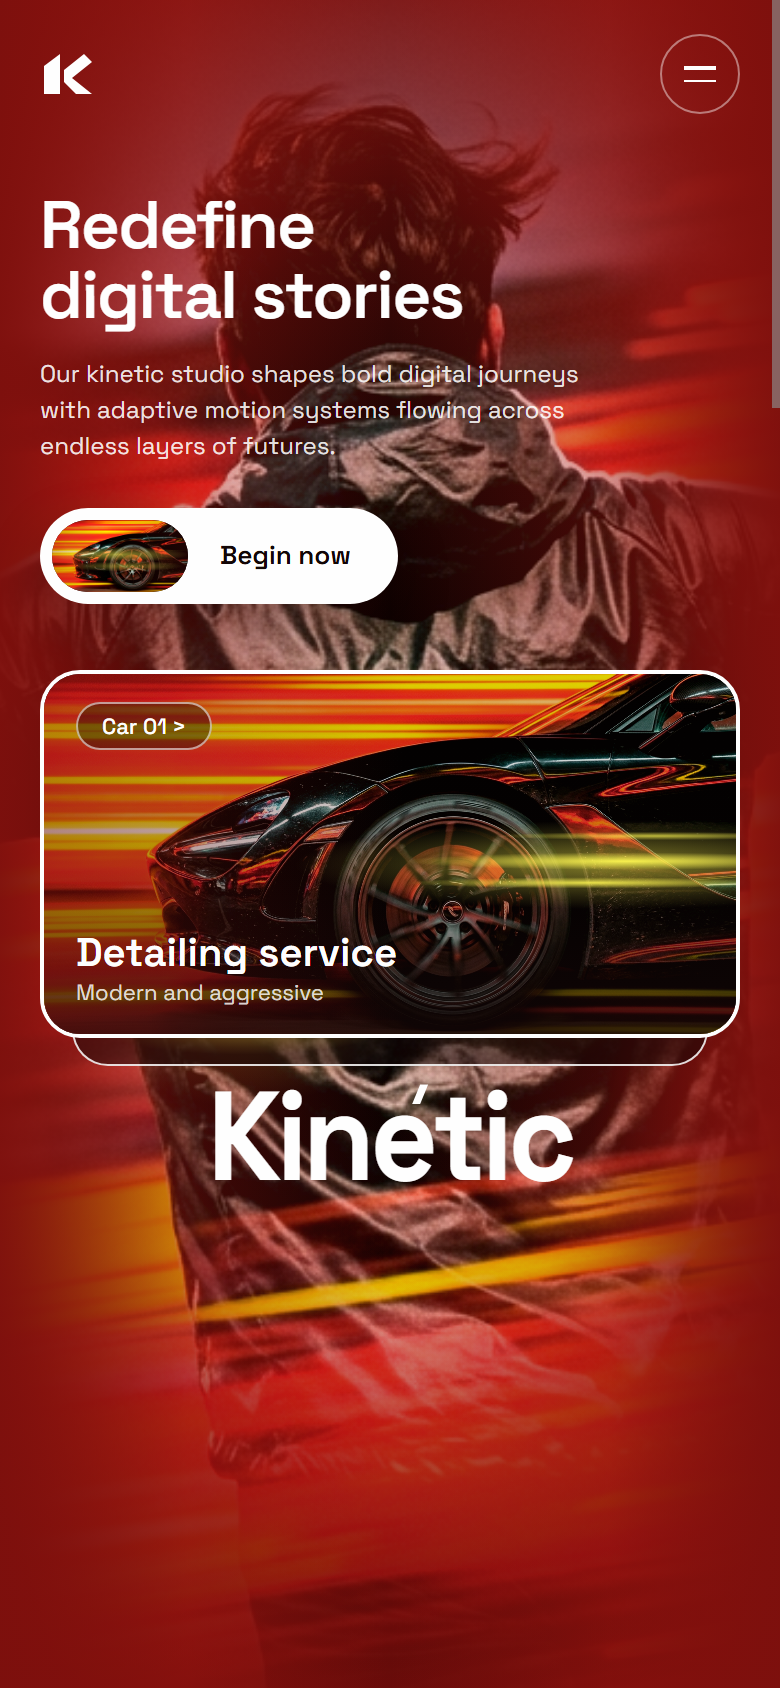
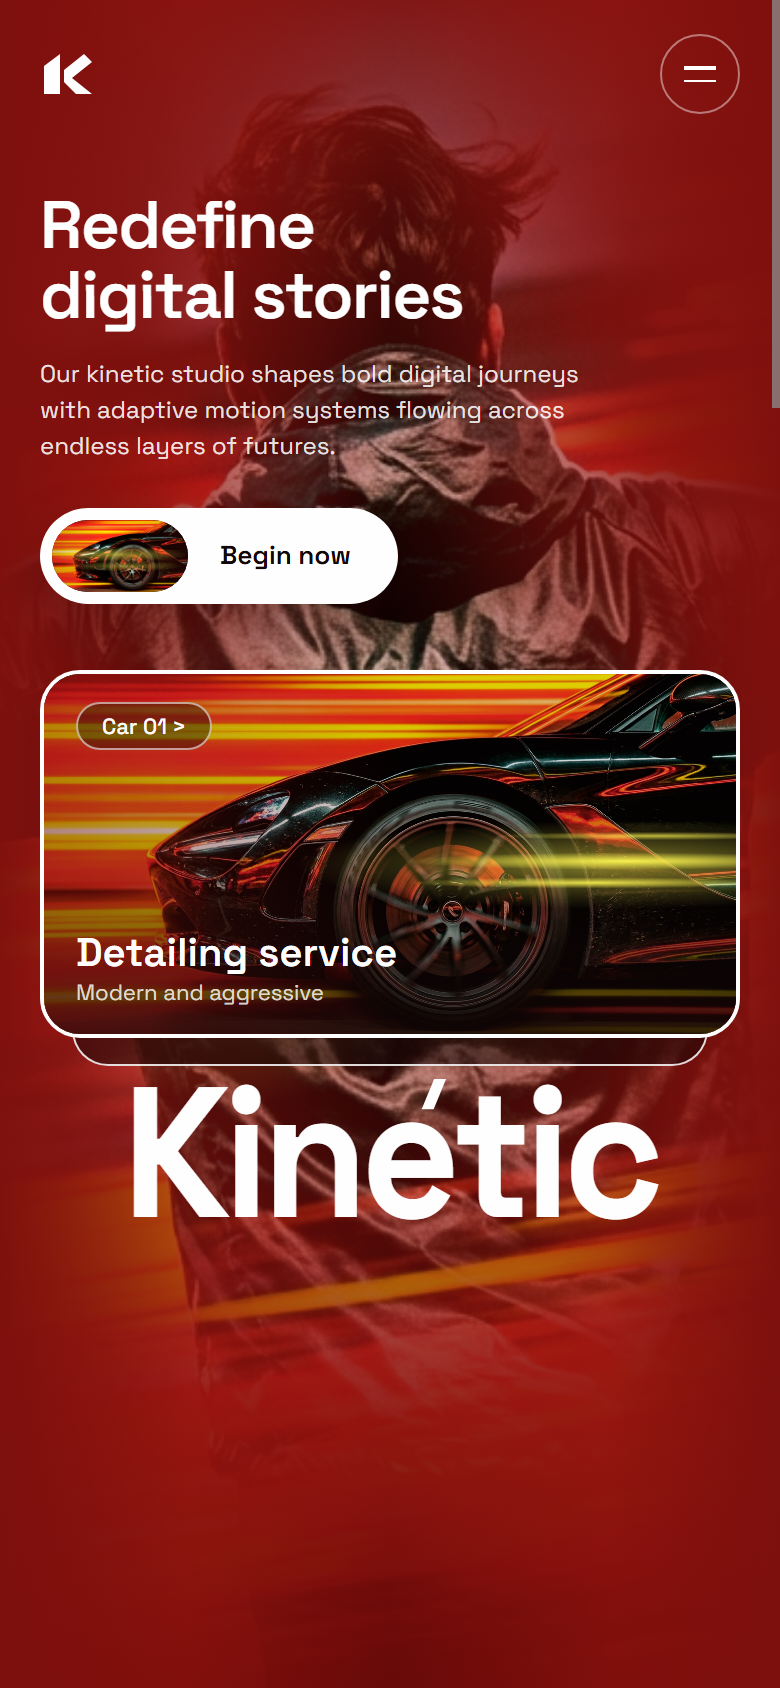
style(fashioneditorial,motionstudio_verminred,sparklingbeverage): refine Kinetic Red streaks, YUZU mobile callout, and refresh screenshots

diff --git a/motionstudio_verminred+snowywhite+citrusyellow/styles.css b/motionstudio_verminred+snowywhite+citrusyellow/styles.css
@@ -162,6 +162,7 @@ img { display: block; max-width: 100%; }
   position: relative;
   height: 100dvh;
   min-height: 760px;
+  max-height: 980px;
   background: radial-gradient(ellipse 84% 78% at 50% 42%, var(--vermin-bright) 0%, #92130F 48%, var(--vermin-red) 100%);
   overflow: hidden;
 }
@@ -186,15 +187,17 @@ img { display: block; max-width: 100%; }
   position: absolute;
   inset: 0;
   background:
-    linear-gradient(90deg, rgba(126, 16, 13, 0.92) 0%, rgba(168, 23, 17, 0.34) 24%, transparent 50%, rgba(168, 23, 17, 0.32) 78%, rgba(126, 16, 13, 0.94) 100%),
-    linear-gradient(180deg, rgba(126, 16, 13, 0.88) 0%, rgba(168, 23, 17, 0.24) 22%, transparent 45%, rgba(126, 16, 13, 0.14) 74%, rgba(110, 12, 10, 0.9) 100%),
-    radial-gradient(ellipse 20% 2.8% at 28% 55%, rgba(254, 246, 80, 0.94), rgba(254, 246, 80, 0.26) 58%, transparent 88%),
-    radial-gradient(ellipse 22% 1.8% at 31% 61%, rgba(254, 246, 80, 0.95), rgba(254, 246, 80, 0.22) 58%, transparent 82%),
-    radial-gradient(ellipse 17% 1.4% at 25% 58%, rgba(254, 246, 80, 0.85), transparent 76%),
-    radial-gradient(ellipse 18% 2.4% at 68% 54%, rgba(254, 246, 80, 0.84), rgba(254, 246, 80, 0.2) 60%, transparent 86%),
-    radial-gradient(ellipse 20% 1.5% at 66% 60%, rgba(254, 246, 80, 0.88), transparent 76%),
-    radial-gradient(ellipse 26% 9% at 31% 58%, rgba(254, 246, 80, 0.36), transparent 84%),
-    radial-gradient(ellipse 22% 7.5% at 67% 57%, rgba(254, 246, 80, 0.28), transparent 84%);
+    radial-gradient(ellipse 44% 38% at 14% 18%, rgba(126, 16, 13, 0.88), transparent 82%),
+    radial-gradient(ellipse 40% 34% at 86% 18%, rgba(126, 16, 13, 0.78), transparent 82%),
+    linear-gradient(90deg, rgba(126, 16, 13, 0.94) 0%, rgba(168, 23, 17, 0.36) 24%, transparent 50%, rgba(168, 23, 17, 0.34) 78%, rgba(126, 16, 13, 0.95) 100%),
+    linear-gradient(180deg, rgba(126, 16, 13, 0.92) 0%, rgba(168, 23, 17, 0.28) 22%, transparent 45%, rgba(126, 16, 13, 0.42) 68%, rgba(126, 16, 13, 0.84) 84%, rgba(105, 10, 8, 0.96) 100%),
+    radial-gradient(ellipse 22% 2.8% at 28% 55%, rgba(254, 246, 80, 0.96), rgba(254, 246, 80, 0.28) 58%, transparent 88%),
+    radial-gradient(ellipse 24% 1.8% at 31% 60%, rgba(254, 246, 80, 0.98), rgba(254, 246, 80, 0.24) 58%, transparent 82%),
+    radial-gradient(ellipse 18% 1.4% at 24% 58%, rgba(254, 246, 80, 0.88), transparent 76%),
+    radial-gradient(ellipse 18% 2.4% at 68% 54%, rgba(254, 246, 80, 0.86), rgba(254, 246, 80, 0.22) 60%, transparent 86%),
+    radial-gradient(ellipse 20% 1.5% at 66% 59%, rgba(254, 246, 80, 0.9), transparent 76%),
+    radial-gradient(ellipse 28% 9% at 30% 58%, rgba(254, 246, 80, 0.4), transparent 84%),
+    radial-gradient(ellipse 22% 7.5% at 67% 57%, rgba(254, 246, 80, 0.3), transparent 84%);
 }
 
 .hero-inner {
@@ -554,11 +557,11 @@ h2 {
 @media (max-width: 900px) {
   .main-nav, .header-right .btn-outline-pill { display: none; }
   .menu-toggle { display: inline-flex; }
-  .hero { height: auto; min-height: 100dvh; }
+  .hero { height: auto; min-height: 100dvh; max-height: none; }
   .hero-inner { padding: 96px 20px 20px; gap: 28px; }
   .hero-mid { flex-direction: column; align-items: flex-start; }
   .hero-card-stack { width: 100%; }
-  .hero-wordmark { font-size: clamp(3rem, 15vw, 4.6rem); letter-spacing: -0.04em; }
+  .hero-wordmark { font-size: clamp(4.1rem, 22vw, 5.6rem); letter-spacing: -0.04em; }
   .wrap { padding: 0 20px; }
   .header-inner { padding: 0 20px; }
   .work-grid, .about-split, .contact-grid { grid-template-columns: 1fr; }

diff --git a/sparklingbeverage_mandarinorange+forestgreen+crestyellow/styles.css b/sparklingbeverage_mandarinorange+forestgreen+crestyellow/styles.css
@@ -1011,7 +1011,7 @@ h2 {
   .hero-meta { font-size: 13px; }
   .hero-meta--bubbly { left: 20px; top: 174px; bottom: auto; }
   .hero-meta--freshly { left: 20px; top: 224px; bottom: auto; }
-  .hero-meta--everyday { left: auto; right: 20px; top: 224px; bottom: auto; text-align: right; }
+  .hero-meta--everyday { left: 20px; right: auto; top: 274px; bottom: auto; text-align: left; }
 
   .cta-circle {
     right: 20px;
